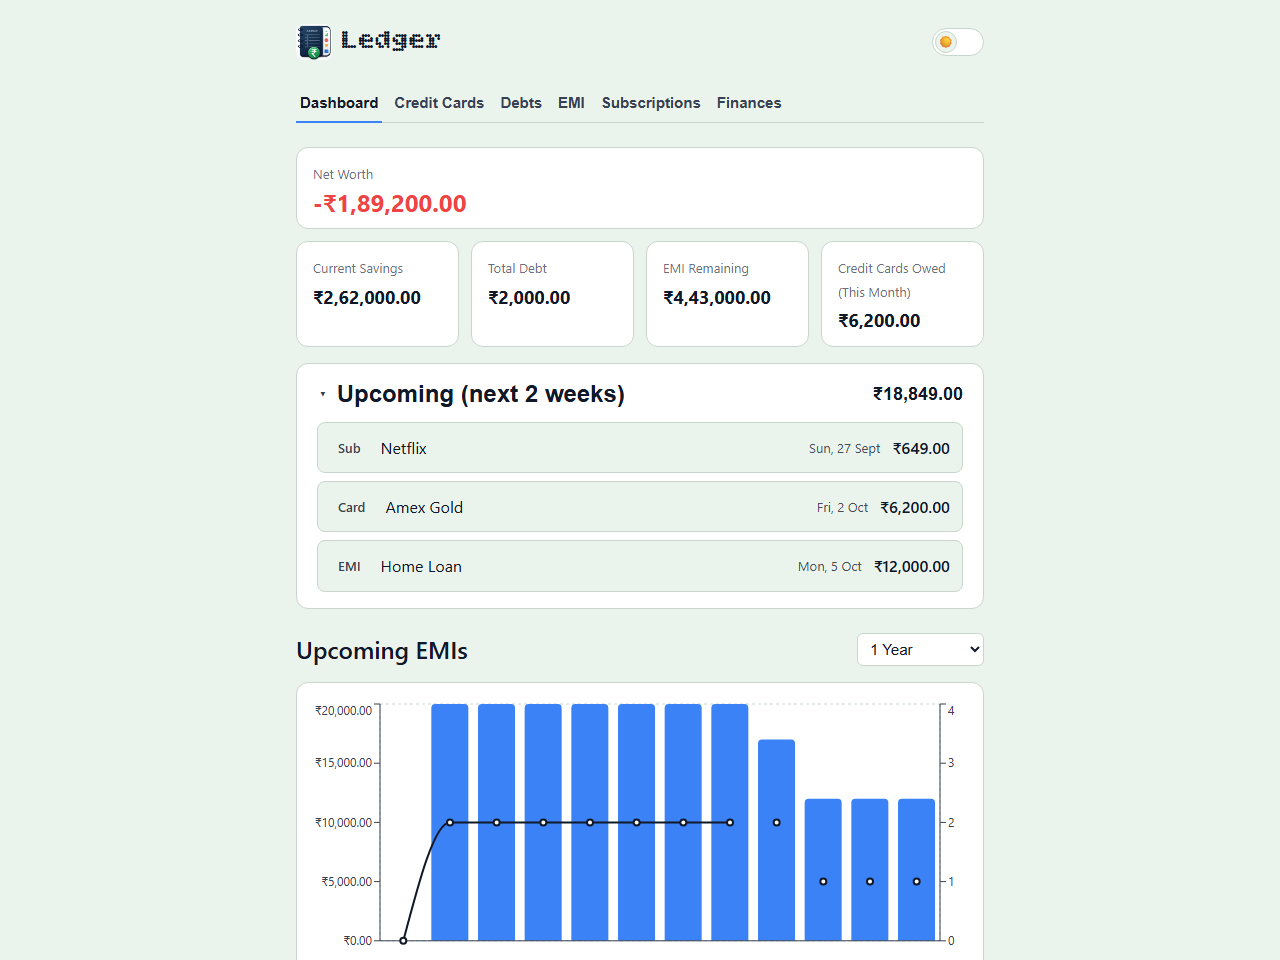
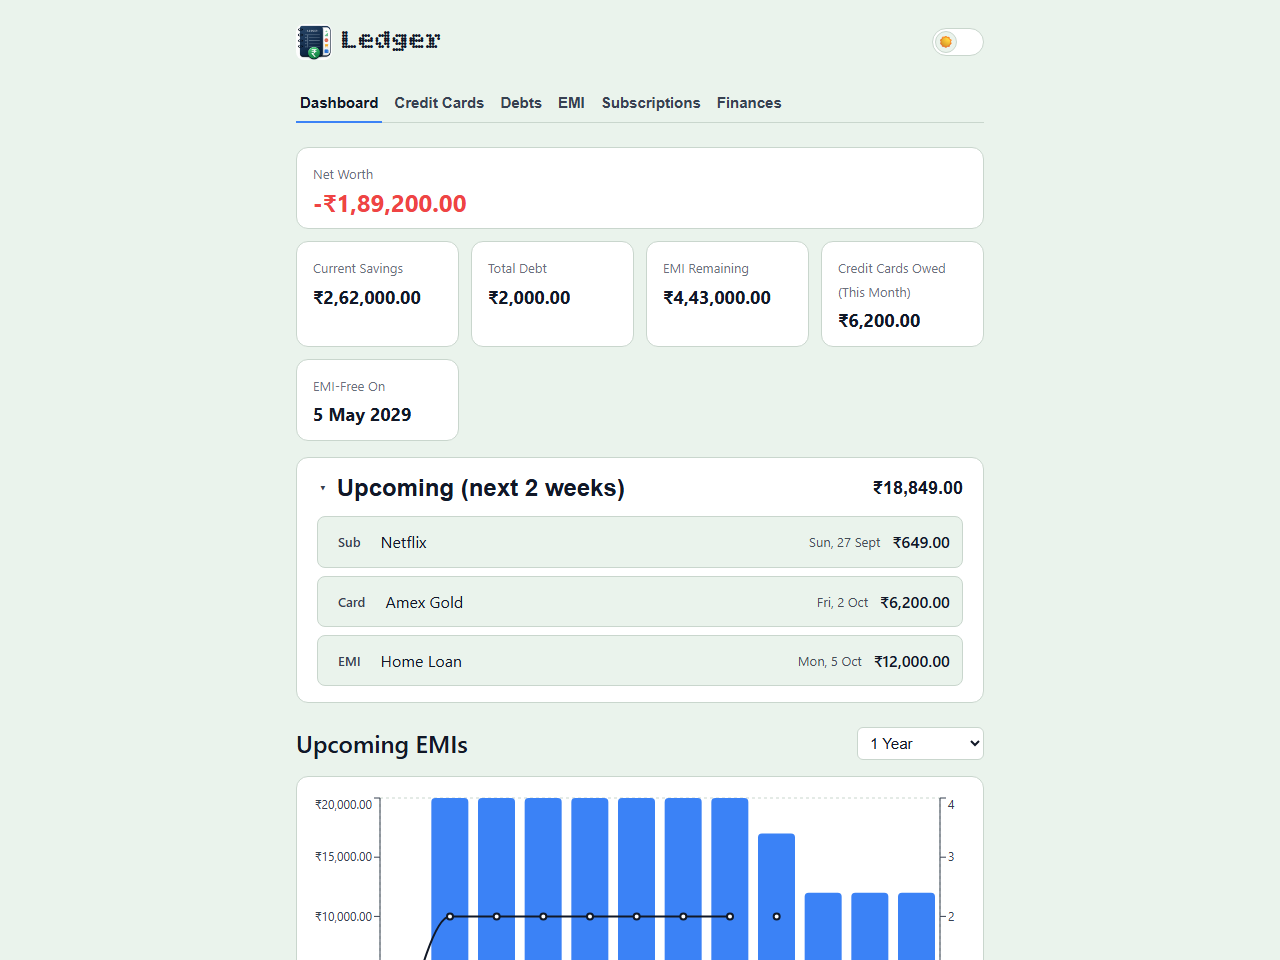
feat: show EMI-Free On on the Dashboard too
The EMI tab's "the day the last active loan clears" stat was only
visible from that tab - added to the server's overview aggregation
(same "latest estimatedPayoffDate across active loans" logic, so both
places can never disagree) and rendered as a fifth stat card, hidden
when there are no active loans same as the EMI tab already does.

e2e: added a cross-check that the Dashboard's value matches the EMI
tab's own stat exactly, rather than hand-computing the expected date
independently. Regenerated Dashboard screenshots for the new card.

diff --git a/server/src/excel/overview.ts b/server/src/excel/overview.ts
@@ -56,6 +56,11 @@ export interface DashboardOverview {
    * reminder to log last month's salary during the first two weeks of a new
    * month if it isn't on record yet. */
   upcoming: UpcomingItem[];
+  /** The day the *last* active loan clears — same "latest finish date across
+   * every active EMI" the EMI tab's own "EMI-Free On" stat shows, not any
+   * individual loan's own payoff date. Null once there are no active loans
+   * (either none exist, or every one is already paid off). */
+  emiFreeDate: string | null;
 }
 
 function nextMonthOf(year: number, month: number): { year: number; month: number } {
@@ -96,6 +101,13 @@ export async function dashboardOverview(today: Date = new Date()): Promise<Dashb
     thisMonthBills.cards.reduce((sum, c) => sum + cardOutstanding(c), 0),
   );
   const netWorth = currentSavings - totalDebt - emiRemaining - creditCardOutstanding;
+
+  // YYYY-MM-DD sorts lexicographically the same as chronologically, so a
+  // plain string max works — same logic as the EMI tab's own stat.
+  const emiFreeDate = emis.reduce<string | null>(
+    (latest, e) => (!e.isPaidOff && e.estimatedPayoffDate && (!latest || e.estimatedPayoffDate > latest) ? e.estimatedPayoffDate : latest),
+    null,
+  );
 
   // --- Upcoming (next 14 days, plus the salary reminder below, which uses
   // that same window but anchored to the *start* of this month instead) ---
@@ -169,5 +181,6 @@ export async function dashboardOverview(today: Date = new Date()): Promise<Dashb
   return {
     netWorth: { currentSavings, totalDebt, emiRemaining, creditCardOutstanding, netWorth },
     upcoming,
+    emiFreeDate,
   };
 }

diff --git a/e2e/regression.ts b/e2e/regression.ts
@@ -1390,6 +1390,26 @@ async function main() {
       "Dashboard Overview: Upcoming header shows the total across all items",
       (await page.locator(".upcoming-total").innerText()).includes("3,000"),
     );
+
+    // Cross-checked against the EMI tab's own stat (rather than hand-computing
+    // the expected finish date again here) — both derive it the same way
+    // (latest estimatedPayoffDate across active loans), so they must agree.
+    await page.click('.tabs button:has-text("EMI")');
+    await page.waitForSelector(".add-emi-form");
+    const emiTabFreeDate = await page.locator(".emi-stat", { hasText: "EMI-Free On" }).innerText();
+    await page.click('.tabs button:has-text("Dashboard")');
+    // Dashboard is conditionally rendered (unmounts entirely when not the
+    // active tab, per App.tsx), so returning to it re-fetches everything
+    // from scratch — same wait as the very first arrival at this tab, so the
+    // chart-bar checks right after this one aren't racing a fresh loading
+    // state.
+    await waitForDashboardData();
+    await page.waitForTimeout(400);
+    check(
+      "Dashboard Overview: shows the same EMI-Free On date as the EMI tab",
+      (await page.locator(".overview-stat", { hasText: "EMI-Free On" }).innerText()) === emiTabFreeDate,
+    );
+
     check(
       "Upcoming EMIs chart renders bars once an active EMI exists",
       (await page.locator(".emi-projection-chart-wrap .recharts-rectangle").count()) > 0,

diff --git a/client/src/components/DashboardOverview.tsx b/client/src/components/DashboardOverview.tsx
@@ -24,6 +24,12 @@ function formatDueDate(date: string): string {
   return new Date(`${date}T00:00:00`).toLocaleDateString("en-IN", { weekday: "short", day: "numeric", month: "short" });
 }
 
+// Same format as the EMI tab's own "EMI-Free On" stat — no weekday, this one
+// is a distant milestone date rather than a this-week due date.
+function formatEmiFreeDate(date: string): string {
+  return new Date(`${date}T00:00:00`).toLocaleDateString("en-IN", { day: "numeric", month: "short", year: "numeric" });
+}
+
 interface Props {
   onSelectUpcomingItem: (item: UpcomingItem) => void;
 }
@@ -82,6 +88,12 @@ export function DashboardOverview({ onSelectUpcomingItem }: Props) {
               <span>Credit Cards Owed (This Month)</span>
               <strong>{rupee.format(netWorth.creditCardOutstanding)}</strong>
             </div>
+            {data?.emiFreeDate && (
+              <div className="overview-stat">
+                <span>EMI-Free On</span>
+                <strong>{formatEmiFreeDate(data.emiFreeDate)}</strong>
+              </div>
+            )}
           </div>
         )}
 

diff --git a/client/src/api.ts b/client/src/api.ts
@@ -402,6 +402,7 @@ export interface NetWorthBreakdown {
 export interface DashboardOverview {
   netWorth: NetWorthBreakdown;
   upcoming: UpcomingItem[];
+  emiFreeDate: string | null;
 }
 
 export function getOverview(): Promise<DashboardOverview> {
